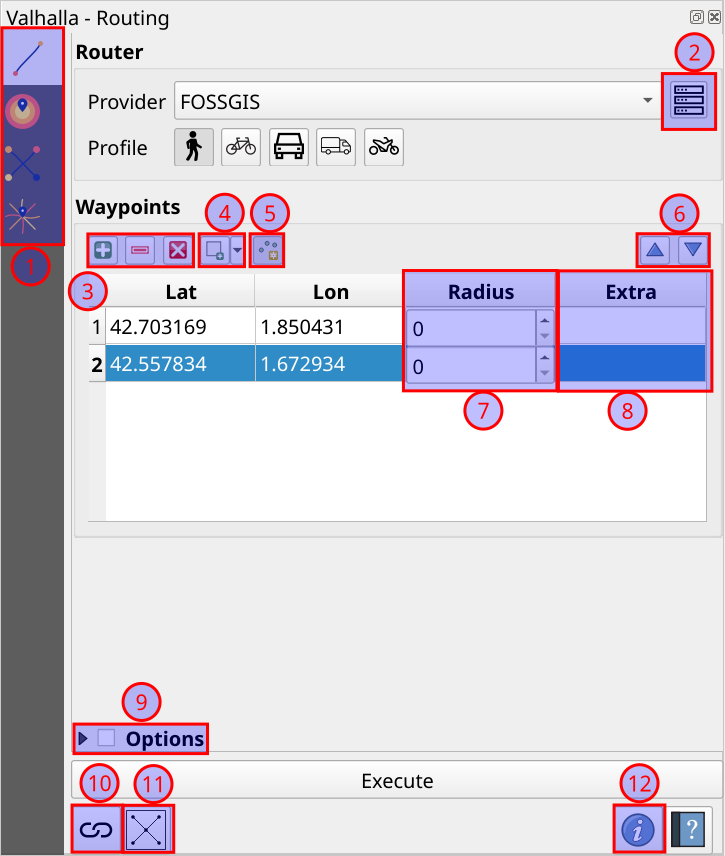
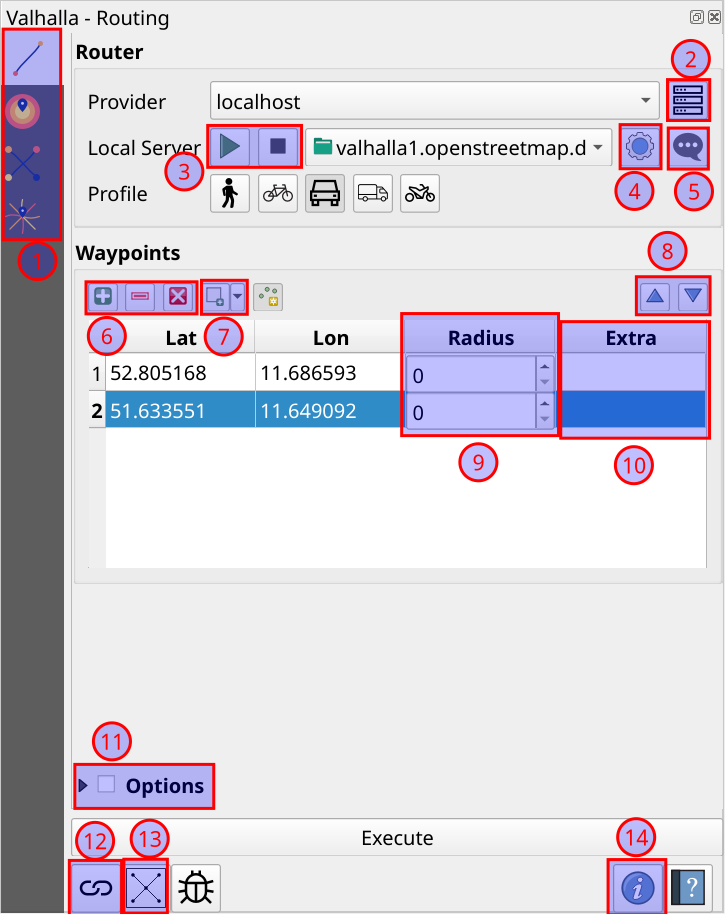
amend docs

diff --git a/README.md b/README.md
@@ -4,6 +4,9 @@ QGIS Plugin for the [Valhalla routing engine](https://github.com/valhalla/valhal
 
 It features:
 - UI & processing algorithms to routing, isochrones, matrix & expansion endpoints for `pedestrian`, `bicycle`, `car`, `truck` & `motorcycle`
+- **all local** calculations after installing [`pyvalhalla-weekly`](https://pypi.org/project/pyvalhalla-weekly/) with the full flexibility of local Valhalla processes:
+  - start a local server while reading from remmote graphs, e.g. a tar file on some server (only support HTTP basic auth)
+  - build your own graph from a OSM PBF file
 - support for most[^1] of Valhalla costing options in both UI & processing algorithms for **all endpoints**, e.g.
   - time-dependent routing
   - exclude polygons to avoid user-defined areas
@@ -22,10 +25,15 @@ It features:
 
 ## How To
 
+### Routing UI
+
 ![explanatory UI pic](./docs/img/RoutingUI_explained.png)
 
 1. Select the endpoint/action to "Execute". Note that some endpoints expect multiple waypoints.
 2. Manage the servers which are shown in the "Provider" drop-down
+3. Start or stop a Valhalla service on `localhost` with the local graph shown in the dropdown menu
+4. Manage settings for the local setup, see ["Settings UI"](#settings-ui)
+5. Watch logs for the local Valhalla service
 3. Add/remove/clear waypoints in the table:
 
     - to add waypoints, click the "add" button and then in the map canvas. To end the adding session, either double-click in the map canvas or click the "add" button again.
@@ -36,7 +44,6 @@ It features:
     - "From Point Layer": parses waypoints from the features of a user-specified point layer
     - "From Valhalla JSON": parses waypoints from a Valhalla `locations` request array (TODO: [#27](https://github.com/nilsnolde/valhalla-qgis-plugin/issues/27))
     - "From OSRM URL": parses waypoints from a OSRM GET request URL, also sets `bearing` etc in the "Extra" column
-5. Shows/hides the "Valhalla waypoints" annotation layer
 6. Moves the _selected_ waypoint rows up & down, also updates the "Valhalla waypoints" annotation layer
 7. Set a radius for each waypoint which will snap more roads
 8. Set extra Valhalla waypoint properties in URL query parameter form (i.e.`k1=v1&k2=v2`), e.g. `waiting=1800&date_time=2025-07-25T09:00`
@@ -44,6 +51,23 @@ It features:
 10. View the full most recent request, mostly useful when reporting issues, or debugging.
 11. Check the remote graph for admin & timezone DBs (they should exist) and loads the graph extent of the currently set Valhalla server as a polygon layer (if available).
 12. Some information about the plugin and (if available) the currently set Valhalla server.
+
+### Settings UI
+
+![explanatory UI pic](./docs/img/SettingsUI_explained.png)
+
+1. Change the parent directory of the local Valhalla executables; useful mostly for debugging
+2. Defaults the binary directory back to the Python bindings one
+3. Lets the user add graphs from mulitple sources:
+    - from a tar file, e.g. built with one of [Valhalla's docker images](https://github.com/valhalla/valhalla/tree/master/docker)
+    - from a URL, which could be a remote tar file or graph directory; also support HTTP basic auth
+    - from a OSM PBF file, which will build the graph from scratch
+4. Remove a local graph
+5. Change the directory or disk for local graphs
+6. Edit the Valhalla configuration which will control both the local graph build and the local service
+7. View the local graph build logs
+8. List of locally registered graphs available for `localhost`
+9. A list of dependencies; currently only [`pyvalhalla-weekly`](https://pypi.org/project/pyvalhalla-weekly/) is supported. After plugin installation you can install the package from here. On QGIS startup it'll check if there's a new version available and let you update.
 
 ## Test
 
@@ -74,14 +98,3 @@ Without going into too much detail, this plugin had once a **much** wider scope.
 We were also planning to open a web shop where you could buy Valhalla & OSRM graphs right from QGIS and load them locally in a heartbeat. The idea was grand and a lot of OSS was being released as the result of it, e.g. the python bindings to Valhalla & OSRM and Windows support for `pyvroom`. Sadly the work to get there was grand as well and we never ended up releasing the full plugin.
 
 The current Valhalla plugin still has all the source code though, mostly just commented out. In case anyone ever feels the urge to rival ESRI Network Analyst, please contact me on nilsnolde+github@proton.me.
-
-## Python Bindings
-
-Originally we wanted to make this plugin work with https://pypi.org/project/pyvalhalla and other Python bindings, so no one would have to install Valhalla locally (QGIS users are not always comfy with that sort of thing).
-
-However, that's not possible with PyPI distributions, because the wheels vendor the dependencies and Valhalla & QGIS share a lot of dependencies. That makes QGIS crash as it's basically UB what happens when two versions of the same library are loaded into the same process.
-
-There are 2 ways to make this work:
-1. either not use the bindings directly, but rather the packaged Valhalla C++ executables. Obvious downside is performance: if used like that, for every single request Valhalla will have to load the relevant graph tiles, because there is of course no persisted cache. On the upside: it's possible today, even including building the graph.
-2. publish Valhalla (with `-DENABLE_PYTHON_BINDINGS=ON`) on all package management platforms that QGIS uses for distribution. That's of course the harder solution: apt/dnf/pacman for Linux, God knows what we'd need to do or who to bribe for OSX & Win. I saw some `vcpkg` mentions in the QGIS repo and know Matthias was advocating for it (at least OSX builds), but have no idea about the current state or platform-scope. If `vcpkg` would be the future of > 90% of QGIS distributions, it could make this option fairly easy.
-3. (yeah right..) Add libvalhalla directly to QGIS and have its functionalities built-in 😄
